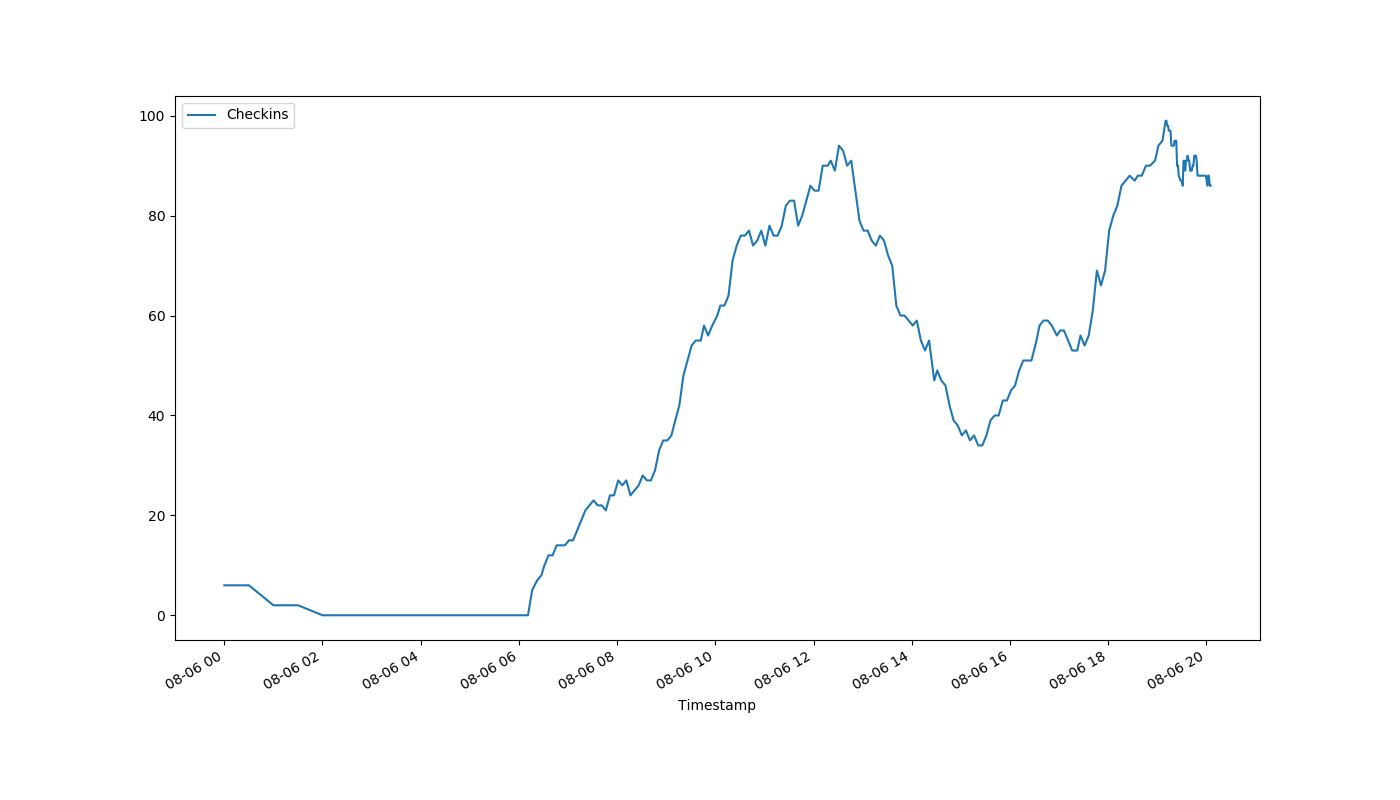
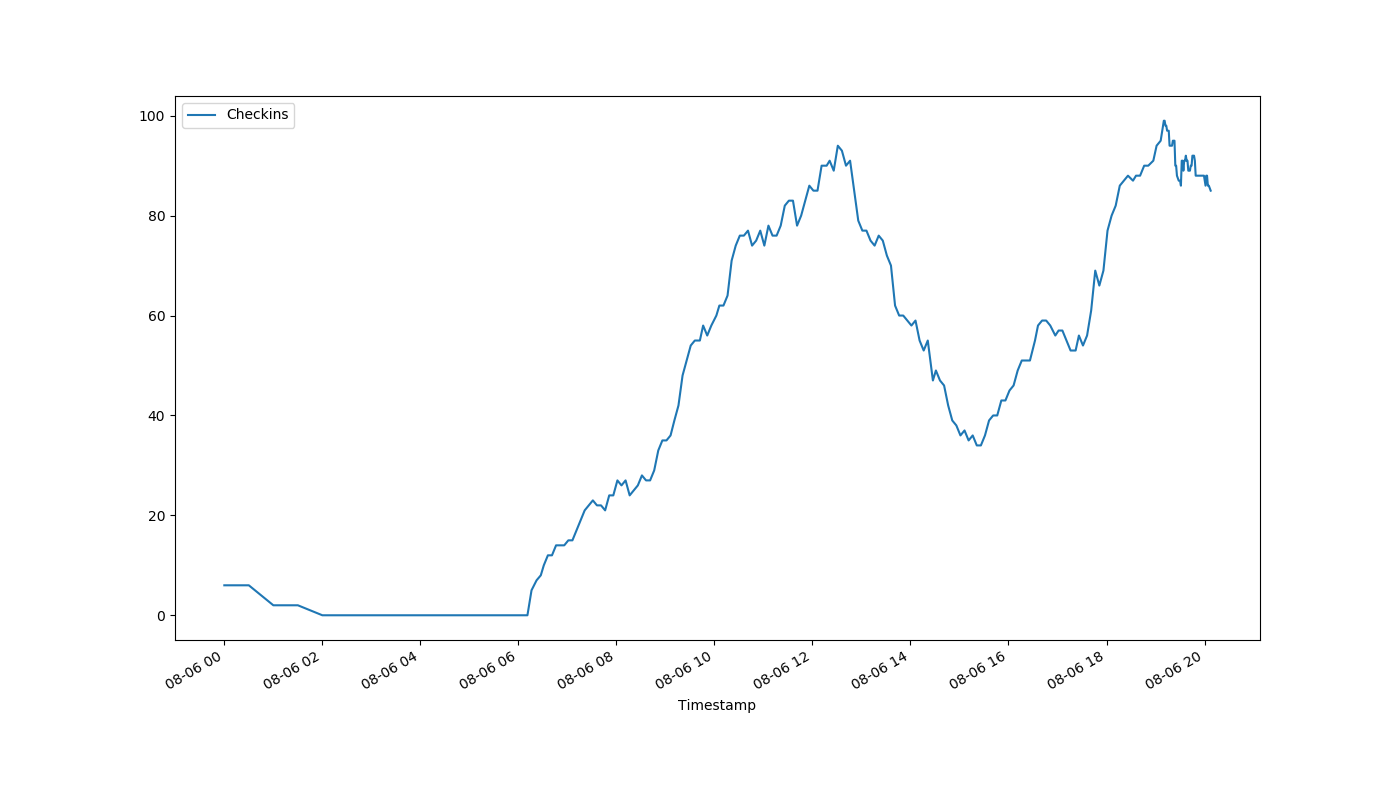
auto-Aug-06-20:08:40

diff --git a/index.html b/index.html
@@ -1,1 +1,1 @@
-<!DOCTYPE html><html><head><meta http-equiv="refresh" content="15"><link rel='stylesheet' href='holmcurrent.css'></head><body><p id='count'>86</p><div id='graph-wrap'><img id='graph' src='holmgraph-Aug-06.png'></div><p id='updated'>Last updated 20:06:12 / 20:05:15</p></body></html>
+<!DOCTYPE html><html><head><meta http-equiv="refresh" content="15"><link rel='stylesheet' href='holmcurrent.css'></head><body><p id='count'>85</p><div id='graph-wrap'><img id='graph' src='holmgraph-Aug-06.png'></div><p id='updated'>Last updated 20:08:12 / 20:07:32</p></body></html>
